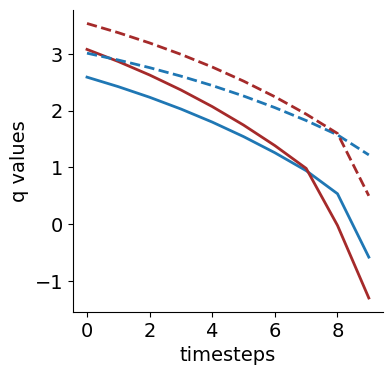
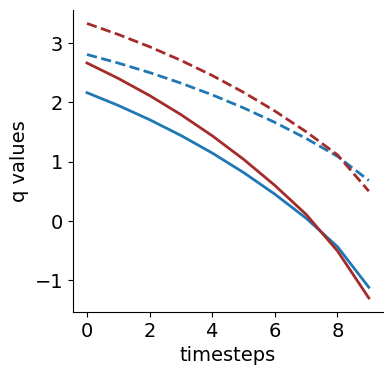
add new references

diff --git a/basic_discounting_model.py b/basic_discounting_model.py
@@ -76,11 +76,11 @@ ACTIONS[-1] =  ['completed'] # actions for final state
 
 HORIZON = 10 # deadline
 DISCOUNT_FACTOR = 0.9 # discounting factor
-EFFICACY = 0.9 # self-efficacy (probability of progress on working)
+EFFICACY = 0.6 # self-efficacy (probability of progress on working)
 
 # utilities :
-REWARD_PASS = 4.0 
-REWARD_FAIL = -4.0
+REWARD_PASS = 2.0 
+REWARD_FAIL = -2.0
 REWARD_SHIRK = 0.5
 EFFORT_WORK = -0.4
 EFFORT_SHIRK = -0 
@@ -241,7 +241,7 @@ discount_factor = 0.9
 reward_pass = 2
 reward_fail = -2
 
-reward_func, reward_func_last = get_reward_functions(STATES, reward_pass, reward_fail, REWARD_SHIRK, 
+reward_func, reward_func_last = get_reward_functions(STATES, REWARD_PASS, REWARD_FAIL, REWARD_SHIRK, 
                                                      REWARD_COMPLETED, EFFORT_WORK, EFFORT_SHIRK)
 T = get_transition_prob(STATES, EFFICACY)
 V_opt, policy_opt, Q_values = mdp_algms.find_optimal_policy(STATES, ACTIONS, HORIZON, 
